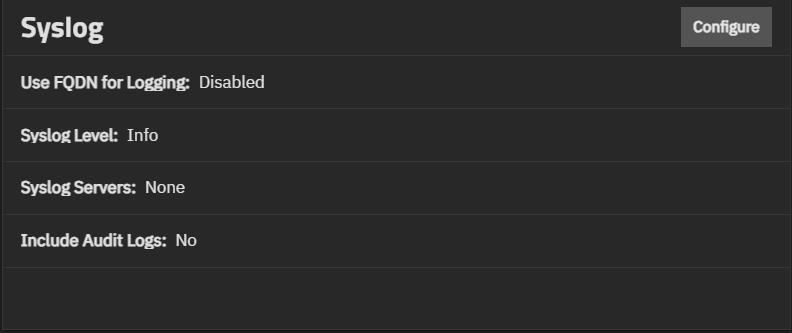
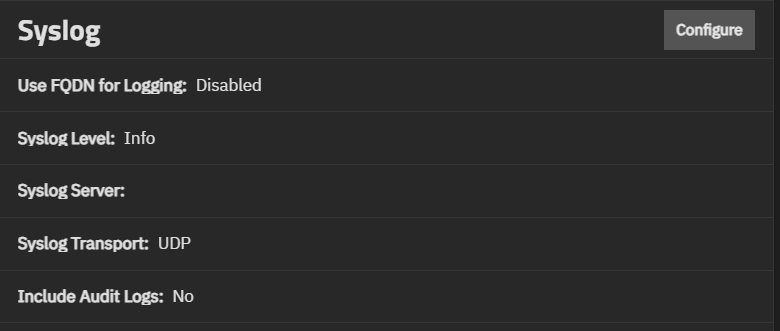
PD-2242 Update Syslog Configuration Content
This PR updates the ManageSyslogsSCALE.md tutorial by removing references to CAs, adds new screenshot and instructions to match the new UI configuration process.

(cherry picked from commit 3e06b3e1feab956dbecef0cd7f14d585894dc4b5)

diff --git a/content/SCALETutorials/SystemSettings/Advanced/ManageSysLogsSCALE.md b/content/SCALETutorials/SystemSettings/Advanced/ManageSysLogsSCALE.md
@@ -1,6 +1,6 @@
 ---
 title: "Managing System Logging"
-description: "Provides information on setting up or changing the syslog server, the level of logging and the information included in the logs, and using TLS as the transport protocol."
+description: "Provides information on setting up or changing syslog server settings, the level of logging, the information included in the logs, and using TLS as the transport protocol."
 weight: 20
 tags:
  - alerts
@@ -15,29 +15,38 @@ keywords:
 {{< include file="/static/includes/AdvancedSettingsWarningSCALE.md" >}}
 
 By default, TrueNAS writes system logs to the system boot device.
-The **Syslog** widget on the **System > Advanced Settings** screen allows users determine how and when the system sends log messages to a connected syslog server.
+The **Syslog** widget on the **System > Advanced Settings** screen allows users determine how and when the system sends log messages to a connected syslog server or server array of two servers.
+Each syslog server can have its own host, transport, and TLS certificate settings.
+
 The **Syslog** widget displays the existing system logging settings.
 
 {{< trueimage src="/images/SCALE/SystemSettings/AdvancedSystemSettingsSyslogWidget.png" alt="Syslog Widget" id="Syslog Widget" >}}
 
 {{< hint type=note >}}
-Before configuring your syslog server to use TLS as the **Syslog Transport** method, first make sure you add a certificate and certificate authority (CA) to the TrueNAS system. Go to **Credentials > Certificates** and use the **Certificate Authority (CA)** and **Certificates** widgets to verify you have the required certificates or to add them.
+Before configuring your syslog server to use TLS as the **Syslog Transport** method, first add a certificate(s) to the TrueNAS system.
+Go to **Credentials > Certificates** and use the **Certificates** widget to verify you have the required certificates, and if not present, to import them.
 {{< /hint >}}
 
 Click **Configure** to open the **Syslog** configuration screen.
-The **Syslog** configuration screen settings specify the logging level the system uses to record system events, the syslog server DNS host name or IP, the transport protocol it uses, and if using TLS, the certificate and certificate authority (CA) for that server, and finally if it uses the system dataset to store the logs.
+The **Syslog** configuration screen settings specify the logging level the system uses to record system events, the syslog server DNS host name or IP, the transport protocol it uses, and if using TLS, the certificate for that server, and finally if it uses the system dataset to store the logs.
 
-{{< trueimage src="/images/SCALE/SystemSettings/SyslogConfigScreen.png" alt="Syslog Settings Screen" id="Syslog Settings Screen" >}}
-
-Enter the remote syslog server DNS host name or IP address in **Syslog Server**. To use non-standard port numbers like *mysyslogserver:1928*, add a colon and the port number to the host name. Log entries are written to local logs and sent to the remote syslog server.
-
-Enter the [transport protocol](https://tools.ietf.org/html/rfc8095) for the remote system log server connection in **Syslog Transport**. Selecting Transport Layer Security (TLS) displays the **Syslog TLS Certificate** and **Syslog TSL Certificate Authority** fields.
-
-Next, select the [transport protocol](https://tools.ietf.org/html/rfc8095) for the remote system log server TLS certificate from the **Syslog TLS Certificate** dropdown list, and select the TLS CA for the TLS server from the **Syslog TLS Certificate Authority** dropdown list.
+{{< trueimage src="/images/SCALE/SystemSettings/AddingASyslogServer.png" alt="Adding a Syslog Server" id="Adding a Syslog Server" >}}
 
 Select **Use FQDN for Logging** to include the fully-qualified domain name (FQDN) in logs to precisely identify systems with similar host names.
 
-Select the minimum log priority level to send to the remote syslog server from **Syslog Level** the dropdown list.
+Select the minimum log priority level to send to the remote syslog server (or array) from the **Syslog Level** dropdown list.
 The system only sends logs at or above this level.
+
+Enter the remote syslog server DNS host name or IP address in the Syslog server **Host** field.
+To use non-standard port numbers like *mysyslogserver:1928*, add a colon and the port number to the host name.
+Log entries are written to local logs and sent to the remote syslog server.
+
+Select the [transport protocol](https://tools.ietf.org/html/rfc8095) for the remote system log server connection in **Transport**.
+Selecting Transport Layer Security (TLS) shows the **Syslog TLS Certificate** field.
+Select the certificate from the **TLS Certificate** dropdown list.
+
+To add a second syslog server, click **Add Syslog Server** again and repeat the steps above.
+
+Select **Include Audit Logs** to enable audit logging.
 
 Click **Save**.

diff --git a/content/SCALEUIReference/SystemSettings/AdvancedSettingsScreen.md b/content/SCALEUIReference/SystemSettings/AdvancedSettingsScreen.md
@@ -112,7 +112,8 @@ The **Console** widget shows the current console settings for TrueNAS, which cov
 
 ## Syslog Widget
 
-The **Syslog** widget displays the existing system logging settings that specify how and when the system sends log messages to the syslog server.
+The **Syslog** widget displays the existing system logging settings that specify how and when the system sends log messages to system log (syslog) servers.
+TrueNAS allows configuring an array of two syslog servers. Each server can have its own host, transport, and TSL certificate setting.
 
 {{< trueimage src="/images/SCALE/SystemSettings/AdvancedSettingsSyslogWidget.png" alt="Syslog Widget" id="Syslog Widget" >}}
 
